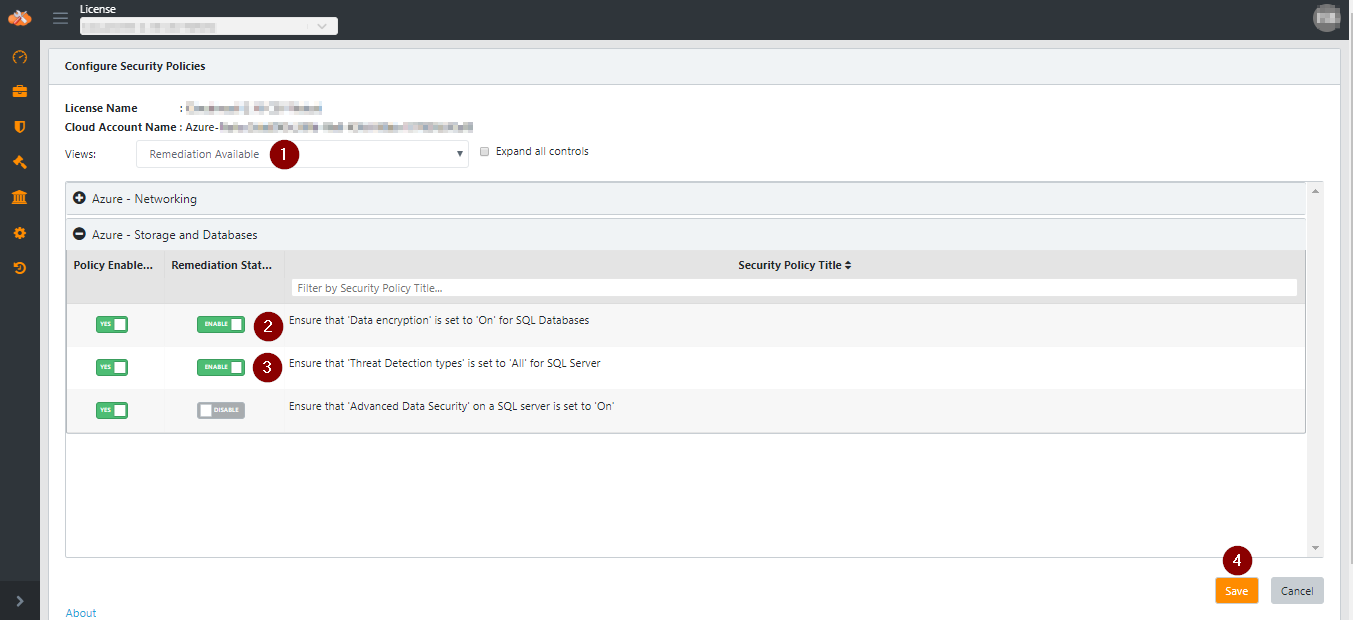
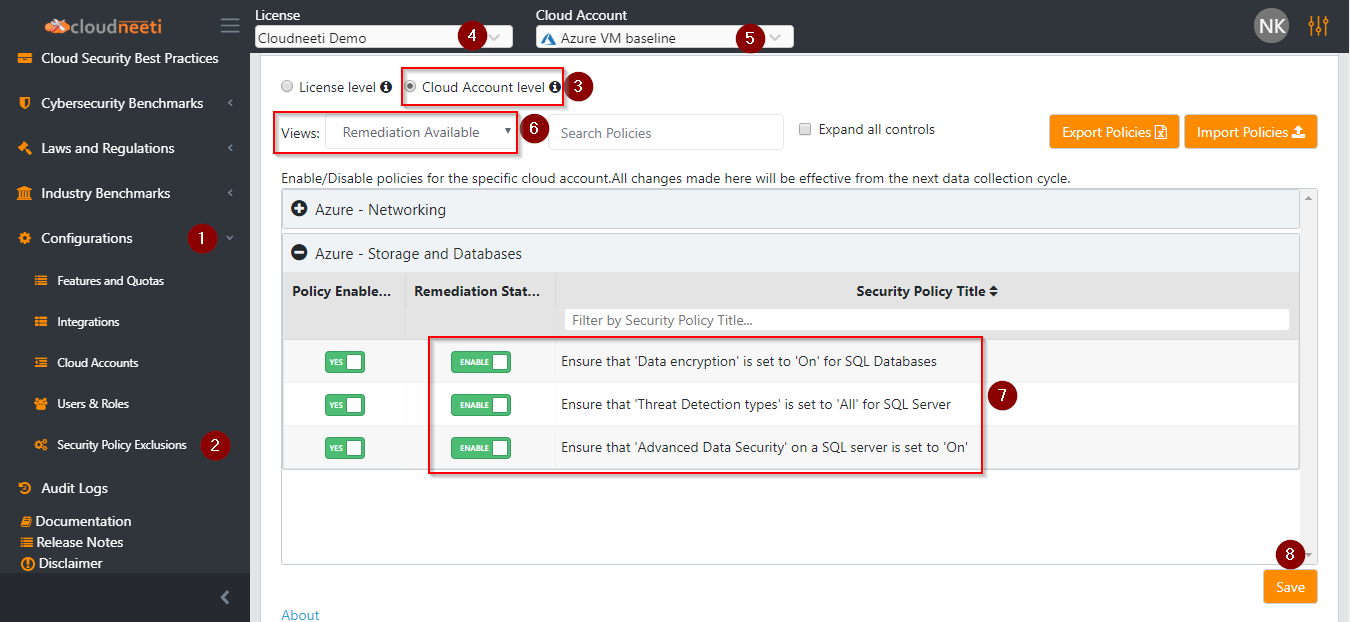
Task 13326 : Update Azure remediation for create policy defination

Changed region(s): [[0.0, 0.0, 1.0, 1.0], [0.5911, 0.1839, 0.6844, 0.2145]]

diff --git a/docs/remediation/azureAutoRemediation.md b/docs/remediation/azureAutoRemediation.md
@@ -2,20 +2,23 @@ Remediation is accomplished by instructing Security Policy to update the configu
 
 ![Remediation of Azure Resources](.././images/cloudneetiRemediation/Azure_Remediation_Steps.png#thumbnail_1)
 
-1.	**Assign permission to Cloudneeti Application** includes giving the Cloudneeti application access to the Azure subscription, assigning a Resource Policy Contributor (Preview)
+1.	**Assign permission to Cloudneeti Application** includes giving the Cloudneeti application access to the Azure subscription, assigning a Resource Policy Contributor
 
-2.	**Configure Policy Remediation** includes configuring security policies in the respective cloud account, upon enabling policy remediation triggers creation of policy assignments in Azure subscription.
+2. **Create policy Definitions** includes provisioning policy definitions to use with Cloudneeti Remediation.
 
-3.	**Assign permissions to Assignments** includes assigning required roles to policy assignments in Azure. 
+3.	**Configure Policy Remediation** includes configuring security policies in the respective cloud account, upon enabling policy remediation triggers creation of policy assignments in Azure subscription.
 
-4.	**Initiate Remediation** includes triggering remediation feature to remediate resources that are non-compliant to a security policy.
+4.	**Assign permissions to Assignments** includes assigning required roles to policy assignments in Azure. 
 
-5.	**Verify results** includes verifying policy result post next data scan on Cloudneeti.
+5.	**Initiate Remediation** includes triggering remediation feature to remediate resources that are non-compliant to a security policy.
+
+6.	**Verify results** includes verifying policy result post next data scan on Cloudneeti.
 
 
 | **Step**                               | **Product**      | **Role**                     |
 |----------------------------------------|------------------|------------------------------|
 | Assign permission to Service Principal | Azure Portal     | Subscription Owner           |
+| Create policy Definitions              | Azure Portal     | Resource Policy Contributor/ Contributor         |
 | Configure Policy Remediation           | Cloudneeti       | License Admin/ Account Admin |
 | Assign permissions to Assignments      | Azure CloudShell | Subscription Owner           |
 | Initiate Remediation                   | Cloudneeti       | License Admin/ Account Admin |
@@ -45,7 +48,10 @@ The **Cloudneeti Application registered** while onboarding the Azure Account to 
 | Azure Assignments                 | Microsoft Azure   | Roles as per policies enabled for remediation [Refer here](../azureAutoRemediation/#roles-enabled-for-remediation) | STEP 4   |
 
 
-### STEP 1: Assign permission to Service Principal
+### STEP 1: Assign permission to Cloudneeti Application registered
+
+The **Cloudneeti Application registered** while onboarding the Azure Account to Cloudneeti needs to be granted a Resource Policy Contributor (Preview) role.
+
 Login to [Azure Portal](https://portal.azure.com/)  with Subscription Owner role.
 
 1.	Click **Subscriptions in primary menu** (1)
@@ -59,20 +65,42 @@ Login to [Azure Portal](https://portal.azure.com/)  with Subscription Owner rol
 
     ![STEP 1: Assign permission to Service Principal](.././images/cloudneetiRemediation/Azure_Remediation_Step1.png#thumbnail_1)
 
-### STEP 2: Configure remediation policies
+### Step 2: Create policy Definitions (to use with Cloudneeti Remediation)
+1. Open **Cloud Shell** and choose **PowerShell** from shell drop 
+
+2. Clone Azure Remediation Policy repository
+
+        git clone https://github.com/Cloudneeti/azure-remediation-policy.git
+
+3. Switch to user directory 
+    
+        cd $user
+
+4. Navigate to remediation directory
+
+        cd azure-remediation-policy
+
+5. Provision policy definition in the subscription
+
+        .\provision-PolicyDefinitions.ps1 -SubscriptionId <Subscription Id>
+
+**Note:**
+* Create policy definitions at the Azure management group level, so that they can be shared across multiple subscriptions.
+
+### STEP 3: Configure remediation policies
 Login to Cloudneeti portal with **License Admin** role 
 
-1.	Select desired **License** (1) and **Cloud Account** (2)
-2.	Click **Configure** 
-3.	Select **Configure security policies**
+1. Navigate to **Configurations** (1) and **Security Policy Exclusion** (2)
 
-    ![STEP 2: Configure remediation policies](.././images/cloudneetiRemediation/Azure_Remediation_Step2.png#thumbnail_1)
+2. Select **Account Level** (3)
 
-4. Select **Remediation available** in filter (1)
+3. Select **License** (4) and **Cloud Account** (5) from dropdown options
 
-5. **Enable** policies for remediation (2) (3)
+4. Select **Remediation available** in filter (6)
 
-6. Click **Save** (4)
+5. **Enable** policies for remediation (7) 
+
+6. Click **Save** (8)
 
     ![STEP 2: Configure remediation policies](.././images/cloudneetiRemediation/Azure_Remediation_Step2.1.png#thumbnail_1)
 
@@ -86,7 +114,7 @@ Login to Cloudneeti portal with **License Admin** role
 
 * Assigning **Resource Policy Contributor (Preview)** role to Cloudneeti Application in Azure is prerequisite for this step.
 
-### STEP 3: Assigning roles to MSI generated for remediation policies
+### STEP 4: Assigning roles to MSI generated for remediation policies
 Login to [Azure Portal](https://portal.azure.com/) with **Subscription Owner** role.
 
 1. Open **Cloud Shell**
@@ -118,7 +146,7 @@ Azure will start evaluation of resources related to enabled policies.
 
 * Perform this step whenever user adds new or configures existing remediation policies.
 
-### STEP 4: Initiate Remediation
+### STEP 5: Initiate Remediation
 Cloudneeti supports two ways to remediate non-compliant resources.
 
 **Auto Remediation [for new resources]**- Cloudneeti remediation functionality make use of policy framework provided by Azure. Once we enable the remediation policies in Cloudneeti, the new resources get remediated at the time of deployment. It means all the resource are by default remediated. 
@@ -154,7 +182,7 @@ Login to Cloudneeti portal with **License Admin** role
 
 *	If Azure policy evaluation is done, the remediation process for selected policies will start. It will take some time to change resource configuration as per policy. This will change configuration for existing resources.
 
-### STEP 5: Verify Resource Remediation
+### STEP 6: Verify Resource Remediation
 On remediation of non-compliant resources using manually triggered or auto-remediation will not show the updated resource configuration in Cloudneeti immediately. Verification of latest resource configurations can be done after next scan in the Cloudneeti portal. To get the latest configuration perform an on-demand re-scan the in Cloudneeti portal using below steps,
 
 Login to Cloudneeti portal with **License Admin** role
